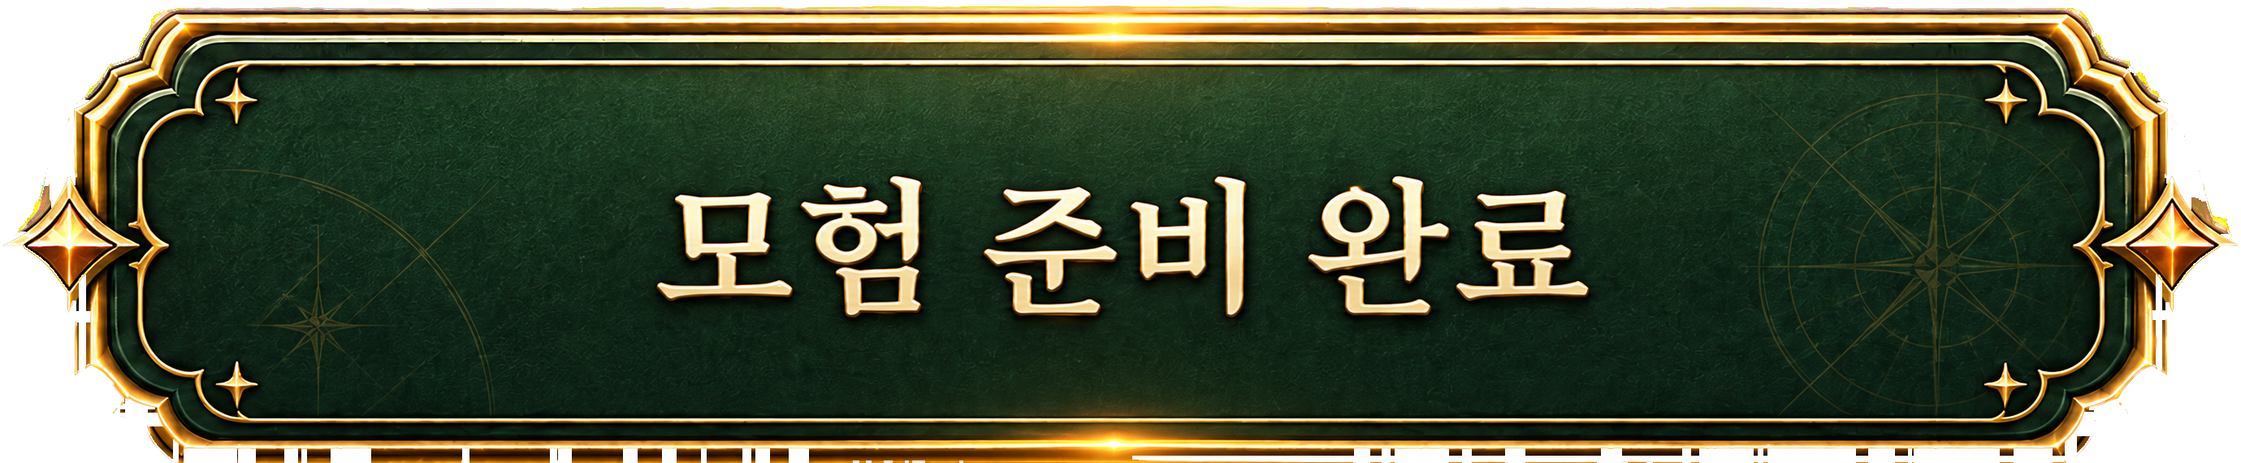
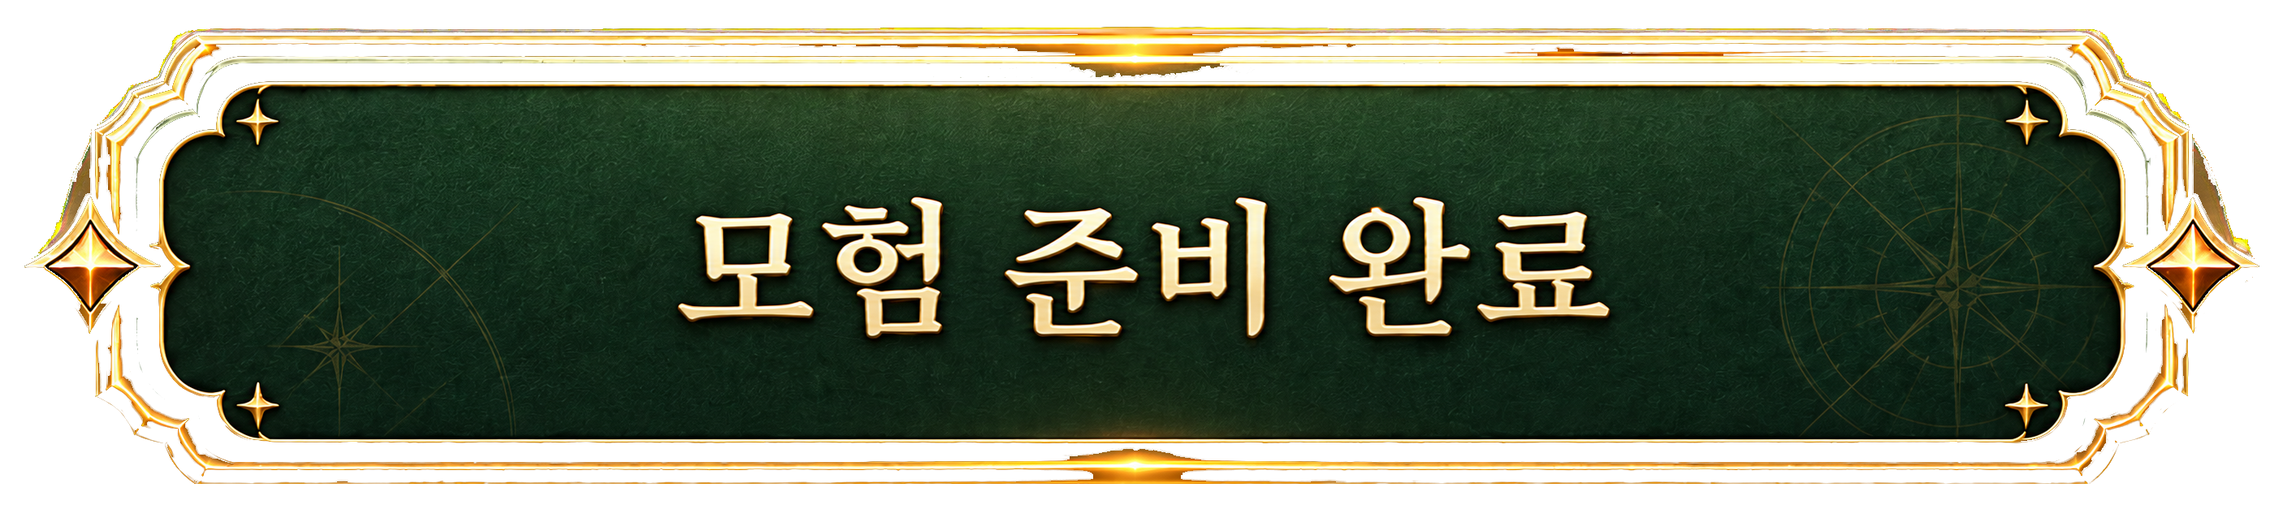
feat: 결과 화면에서 추천받기 패널로 마무리·게임/페어링 경로 차단, 프렙 정렬·버튼 아트 정리
- 결과 버튼: '우리 반 게임 만들기'/'이 기기에서 계속하기' 제거 -> '추천받기' +
  '다시 탐색하기'. 추천받기를 누르면 결과 우측에 WAITING BONUS 패널이 열리고
  성향 기반 같이교육 영상 3편 + 영상별 '나에게 보내기'(navigator.share, 없으면
  링크 복사 - 카톡 나와의 채팅에 붙여넣기) 제공
- 페어링/게임 빌더 씬은 코드에 남기되 라우팅에서 분리: 어떤 stage로 복원되든
  결과 화면으로 폴백해 끊긴 페이지에 갇히지 않음
- 프렙: 카드 블록을 중앙정렬에서 고정 상단 오프셋으로 - 2->3단계에서 한 계단
  덜컥 내려가던 현상 제거(전 단계 카드 top 423px 동일 실측)
- 버튼 아트: 배경 제거를 모서리 flood fill로 재작업(직선 스캔이 명패를 물어뜯어
  생긴 지저분한 가장자리 해결), 8종 전부 2811x622 동일 캔버스 + 이전 질문 명패도
  같은 박스로 재패딩해 상태별/좌우 크기 일치
- 결과 좌측 정렬: 방향 카드·다음 장면·버튼 줄의 음수 마진 제거(모두 left 156px 일치)
- 선생님 패널 이름 폰트 30 -> 24px, 닫기 버튼과 겹치지 않게

diff --git a/src/App.css b/src/App.css
@@ -12,7 +12,7 @@ button:focus-visible, input:focus-visible, [tabindex='-1']:focus-visible { outli
 .prep-footer { align-items: center; border-top: 1px solid rgba(97,57,16,.28); display: flex; gap: 30px; justify-content: space-between; margin-top: 3px; padding-top: 20px; }.prep-footer > p { color: #816039; font-size: 12px; line-height: 1.6; margin: 0; }.prep-submit { align-items: center; background: linear-gradient(110deg, #789d45, #2c8050 54%, #155238); border: 1px solid #d7e988; border-bottom: 4px solid #123c29; border-radius: 12px; box-shadow: 0 0 0 3px rgba(73,118,48,.18), inset 0 2px rgba(255,255,255,.55), 0 9px 14px rgba(71,39,6,.21); color: #fffbe9; cursor: pointer; display: flex; font-size: 17px; font-weight: 800; gap: 12px; justify-content: center; min-height: 62px; min-width: 260px; padding: 0 18px; text-shadow: 0 2px 3px rgba(0,0,0,.32); transition: filter .2s ease, transform .16s ease; }.prep-submit:hover:not(:disabled) { filter: brightness(1.08); transform: translateY(-1px); }.prep-submit:active:not(:disabled) { transform: translateY(2px); }.prep-submit:disabled { background: linear-gradient(145deg, #a8a18a, #706e62); border-color: #c6bfa5; border-bottom-color: #54534d; color: #eeead9; cursor: not-allowed; opacity: .78; text-shadow: none; }.prep-submit__seal { height: 31px; width: 31px; }.prep-cta-hint { color: #806038; font-size: 11px; font-weight: 700; margin: 10px 0 0; text-align: center; }.prep-cta-hint.is-ready { color: #376842; }
 
 /* Teacher state panel and deliberate confirmation steps. */
-.teacher-panel-backdrop, .restart-dialog-backdrop { align-items: flex-start; background: rgba(2,10,5,.62); display: flex; inset: 0; justify-content: flex-end; padding: clamp(14px,3vh,34px); position: fixed; z-index: 60; }.teacher-panel { background: linear-gradient(145deg, #f2dfae, #d8b56f); border: 1px solid #fbe8ae; box-shadow: 0 0 0 5px rgba(75,48,20,.9), 0 22px 50px rgba(0,0,0,.54), inset 0 0 50px rgba(112,63,17,.2); color: #422b10; max-height: calc(100svh - 28px); overflow-y: auto; padding: 24px; width: min(100%, 390px); }.teacher-panel__header { align-items: flex-start; border-bottom: 1px solid rgba(92,54,14,.3); display: flex; justify-content: space-between; padding-bottom: 17px; }.teacher-panel__header p { color: #92702c; font-size: 11px; font-weight: 800; letter-spacing: .12em; margin: 0 0 3px; }.teacher-panel__header h2 { font-family: 'Gowun Batang', serif; font-size: 30px; line-height: 1; margin: 0; }.panel-close { align-items: center; background: rgba(255,250,222,.48); border: 1px solid #9c7432; border-radius: 8px; color: #563817; cursor: pointer; display: flex; height: 40px; justify-content: center; width: 40px; }.teacher-panel__section { border-bottom: 1px solid rgba(92,54,14,.24); padding: 20px 0; }.teacher-panel h3 { color: #77531d; font-size: 13px; letter-spacing: -.02em; margin: 0 0 12px; }.profile-summary { display: grid; gap: 9px; margin: 0; }.profile-summary div { align-items: start; display: grid; gap: 10px; grid-template-columns: 105px 1fr; }.profile-summary dt { color: #866631; font-size: 12px; font-weight: 700; }.profile-summary dd { font-size: 13px; font-weight: 800; line-height: 1.45; margin: 0; }.profile-summary__growth { display: grid; gap: 3px; list-style: none; margin: 0; padding: 0; }.profile-summary__growth li { align-items: baseline; display: flex; gap: 7px; }.profile-summary__growth li::before { background: #43834c; border-radius: 50%; content: ''; flex: 0 0 auto; height: 7px; transform: translateY(-1px); width: 7px; }.panel-action, .panel-link-grid button { align-items: center; background: rgba(255,250,221,.38); border: 1px solid rgba(118,78,25,.44); border-radius: 8px; color: #553719; cursor: pointer; display: flex; font-size: 13px; font-weight: 800; gap: 7px; justify-content: center; min-height: 42px; }.panel-action { margin-top: 17px; width: 100%; }.teacher-panel__section--status > p { align-items: center; display: flex; font-size: 14px; font-weight: 800; gap: 8px; margin: 0 0 13px; }.status-orb { background: #43834c; border: 2px solid #d7cf88; border-radius: 50%; box-shadow: 0 0 9px rgba(75,153,74,.7); height: 10px; width: 10px; }.panel-link-grid { display: grid; gap: 8px; grid-template-columns: 1fr 1fr; }.panel-link-grid button { font-size: 11px; padding: 8px; }.teacher-panel__footer { padding-top: 18px; }.panel-reset { background: transparent; border: 0; color: #7e4124; cursor: pointer; font-size: 12px; font-weight: 800; padding: 5px 0; text-decoration: underline; }.reset-confirmation { background: rgba(119,57,29,.12); border: 1px solid rgba(124,65,27,.34); border-radius: 8px; padding: 13px; }.reset-confirmation p { font-size: 12px; font-weight: 700; line-height: 1.5; margin: 0 0 10px; }.reset-confirmation div { display: flex; gap: 8px; }.reset-confirmation button { background: #4c7642; border: 1px solid #2f512d; border-radius: 6px; color: #fff8db; cursor: pointer; font-size: 12px; font-weight: 800; min-height: 35px; padding: 0 10px; }.reset-confirmation button + button { background: #eee0b3; border-color: #a77b35; color: #573817; }
+.teacher-panel-backdrop, .restart-dialog-backdrop { align-items: flex-start; background: rgba(2,10,5,.62); display: flex; inset: 0; justify-content: flex-end; padding: clamp(14px,3vh,34px); position: fixed; z-index: 60; }.teacher-panel { background: linear-gradient(145deg, #f2dfae, #d8b56f); border: 1px solid #fbe8ae; box-shadow: 0 0 0 5px rgba(75,48,20,.9), 0 22px 50px rgba(0,0,0,.54), inset 0 0 50px rgba(112,63,17,.2); color: #422b10; max-height: calc(100svh - 28px); overflow-y: auto; padding: 24px; width: min(100%, 390px); }.teacher-panel__header { align-items: flex-start; border-bottom: 1px solid rgba(92,54,14,.3); display: flex; justify-content: space-between; padding-bottom: 17px; }.teacher-panel__header p { color: #92702c; font-size: 11px; font-weight: 800; letter-spacing: .12em; margin: 0 0 3px; }.teacher-panel__header h2 { font-family: 'Gowun Batang', serif; font-size: 24px; letter-spacing: -.04em; line-height: 1.15; margin: 0; overflow-wrap: anywhere; padding-right: 8px; }.panel-close { align-items: center; background: rgba(255,250,222,.48); border: 1px solid #9c7432; border-radius: 8px; color: #563817; cursor: pointer; display: flex; height: 40px; justify-content: center; width: 40px; }.teacher-panel__section { border-bottom: 1px solid rgba(92,54,14,.24); padding: 20px 0; }.teacher-panel h3 { color: #77531d; font-size: 13px; letter-spacing: -.02em; margin: 0 0 12px; }.profile-summary { display: grid; gap: 9px; margin: 0; }.profile-summary div { align-items: start; display: grid; gap: 10px; grid-template-columns: 105px 1fr; }.profile-summary dt { color: #866631; font-size: 12px; font-weight: 700; }.profile-summary dd { font-size: 13px; font-weight: 800; line-height: 1.45; margin: 0; }.profile-summary__growth { display: grid; gap: 3px; list-style: none; margin: 0; padding: 0; }.profile-summary__growth li { align-items: baseline; display: flex; gap: 7px; }.profile-summary__growth li::before { background: #43834c; border-radius: 50%; content: ''; flex: 0 0 auto; height: 7px; transform: translateY(-1px); width: 7px; }.panel-action, .panel-link-grid button { align-items: center; background: rgba(255,250,221,.38); border: 1px solid rgba(118,78,25,.44); border-radius: 8px; color: #553719; cursor: pointer; display: flex; font-size: 13px; font-weight: 800; gap: 7px; justify-content: center; min-height: 42px; }.panel-action { margin-top: 17px; width: 100%; }.teacher-panel__section--status > p { align-items: center; display: flex; font-size: 14px; font-weight: 800; gap: 8px; margin: 0 0 13px; }.status-orb { background: #43834c; border: 2px solid #d7cf88; border-radius: 50%; box-shadow: 0 0 9px rgba(75,153,74,.7); height: 10px; width: 10px; }.panel-link-grid { display: grid; gap: 8px; grid-template-columns: 1fr 1fr; }.panel-link-grid button { font-size: 11px; padding: 8px; }.teacher-panel__footer { padding-top: 18px; }.panel-reset { background: transparent; border: 0; color: #7e4124; cursor: pointer; font-size: 12px; font-weight: 800; padding: 5px 0; text-decoration: underline; }.reset-confirmation { background: rgba(119,57,29,.12); border: 1px solid rgba(124,65,27,.34); border-radius: 8px; padding: 13px; }.reset-confirmation p { font-size: 12px; font-weight: 700; line-height: 1.5; margin: 0 0 10px; }.reset-confirmation div { display: flex; gap: 8px; }.reset-confirmation button { background: #4c7642; border: 1px solid #2f512d; border-radius: 6px; color: #fff8db; cursor: pointer; font-size: 12px; font-weight: 800; min-height: 35px; padding: 0 10px; }.reset-confirmation button + button { background: #eee0b3; border-color: #a77b35; color: #573817; }
 .restart-dialog-backdrop { align-items: center; justify-content: center; }.restart-dialog { background: linear-gradient(145deg, #f2dfae, #d8b56f); border: 1px solid #fbe8ae; box-shadow: 0 0 0 5px rgba(75,48,20,.9), 0 22px 50px rgba(0,0,0,.54); color: #422b10; max-width: calc(100vw - 32px); padding: 27px; width: 430px; }.restart-dialog > p { color: #92702c; font-size: 11px; font-weight: 800; letter-spacing: .12em; margin: 0 0 8px; }.restart-dialog h2 { font-family: 'Gowun Batang', serif; font-size: 25px; letter-spacing: -.06em; margin: 0 0 9px; }.restart-dialog > span { color: #725027; font-size: 13px; }.restart-dialog div { display: flex; gap: 9px; margin-top: 22px; }.restart-dialog button { background: #407a48; border: 1px solid #1d5432; border-radius: 8px; color: #fff8dc; cursor: pointer; font-weight: 800; min-height: 43px; padding: 0 14px; }.restart-dialog button + button { background: #f5e6bd; border-color: #a97936; color: #563817; }
 
 @keyframes prep-mote { 0%,100% { opacity: .2; transform: translateY(14px); } 50% { opacity: .85; transform: translateY(-18px); } }

diff --git a/src/features/journey/journey-shared.css b/src/features/journey/journey-shared.css
@@ -315,16 +315,16 @@
    Everything from here down shares the same 640px right edge so the column reads as one. */
 /* Shifted left by exactly the bar + padding, so the words 반응/공감 sit on the same
    vertical line as the copy text above them. */
-.journey-result--art .journey-result__directions { display: grid; gap: clamp(10px, 1vw, 16px); grid-template-columns: repeat(2, minmax(0, 1fr)); margin-left: calc(-4px - clamp(17px, 1.7vw, 28px)); max-width: 640px; }
+.journey-result--art .journey-result__directions { display: grid; gap: clamp(10px, 1vw, 16px); grid-template-columns: repeat(2, minmax(0, 1fr)); max-width: 640px; }
 .journey-result--art .journey-result__directions span { background: rgba(255,255,255,.6); border: 0; border-left: 4px solid #8a6b22; border-radius: 0 10px 10px 0; box-shadow: 0 3px 12px rgba(60,70,40,.14); display: grid; gap: 6px; padding: clamp(15px, 1.5vw, 24px) clamp(17px, 1.7vw, 28px); }
 .journey-result--art .journey-result__directions small { color: #6b7b58; font-size: clamp(13px, 1.05vw, 18px); font-weight: 800; }
 .journey-result--art .journey-result__directions b { color: #20301e; font-size: clamp(25px, 2.1vw, 38px); letter-spacing: -.04em; }
 /* Same left shift as the direction cards, so every box shares one left edge. */
-.journey-result--art .journey-result__caution { background: rgba(255,255,255,.55); border-left: 4px solid #8a6b22; border-radius: 0 10px 10px 0; box-sizing: border-box; color: #43402e; font-size: clamp(14px, 1.05vw, 18px); line-height: 1.7; margin-left: calc(-4px - clamp(17px, 1.7vw, 28px)); margin-top: clamp(18px, 2.6vh, 30px); max-width: 640px; padding: clamp(10px, 1.2vh, 15px) clamp(17px, 1.7vw, 28px); }
+.journey-result--art .journey-result__caution { background: rgba(255,255,255,.55); border-left: 4px solid #8a6b22; border-radius: 0 10px 10px 0; box-sizing: border-box; color: #43402e; font-size: clamp(14px, 1.05vw, 18px); line-height: 1.7; margin-top: clamp(18px, 2.6vh, 30px); max-width: 640px; padding: clamp(10px, 1.2vh, 15px) clamp(17px, 1.7vw, 28px); }
 .journey-result--art .journey-result__caution b { color: #8a6b22; font-size: clamp(12px, .95vw, 15px); letter-spacing: .08em; }
 .journey-result--art .journey-result__next { color: #2c5a3c; font-size: clamp(16px, 1.3vw, 23px); font-weight: 800; letter-spacing: -.03em; margin-top: clamp(16px, 2.2vh, 26px); }
 .journey-result--art .journey-result__disclaimer { color: #6e785f; font-size: clamp(12px, .95vw, 16px); line-height: 1.65; margin-top: clamp(10px, 1.6vh, 18px); }
-.journey-result--art .journey-result__actions { margin-left: calc(-4px - clamp(17px, 1.7vw, 28px)); margin-top: clamp(14px, 2.2vh, 28px); max-width: 640px; }
+.journey-result--art .journey-result__actions { margin-top: clamp(14px, 2.2vh, 28px); max-width: 640px; }
 /* On the per-type art the painting's own character carries the reveal; the CSS lockup
    overlay just collided with him. */
 .journey-result--art .journey-result__reveal { display: none; }
@@ -377,4 +377,34 @@
   .pairing-mobile-flow{display:grid;gap:14px;margin:50svh 0 0;width:100%}.pairing-mobile-flow .pairing-gate{margin:0;max-width:none;padding:24px 18px}.pairing-gate__code{font-size:clamp(42px,11vw,56px);letter-spacing:.1em;padding-left:.1em}.pairing-waiting{display:grid;gap:13px}.pairing-waiting>section{background:linear-gradient(145deg,rgba(246,233,189,.97),rgba(216,183,111,.96));border:1px solid rgba(125,85,28,.62);box-shadow:inset 0 1px rgba(255,255,255,.7),0 10px 22px rgba(0,0,0,.26);color:#402e18;padding:18px}.pairing-waiting h2{font-family:'Gowun Batang',serif;font-size:25px;letter-spacing:-.08em;line-height:1.12;margin:2px 0 8px}.pairing-waiting>section>p{font-size:12px;font-weight:700;line-height:1.55;margin:0}.pairing-videos{display:grid;gap:9px;margin-top:14px}.pairing-videos a{background:rgba(255,250,224,.68);border:1px solid rgba(113,76,25,.32);color:#3e2d18;display:grid;gap:9px;grid-template-columns:94px 1fr;min-height:92px;padding:7px;text-decoration:none}.pairing-videos img{height:100%;object-fit:cover;width:94px}.pairing-videos__thumb-fallback{align-items:center;background:rgba(113,76,25,.14);color:#71531e;display:flex;height:100%;justify-content:center;width:94px}.pairing-videos span{display:grid;gap:3px}.pairing-videos b{font-size:13px;line-height:1.3}.pairing-videos small{font-size:10px;line-height:1.35}.pairing-videos em{color:#28663d;font-size:10px;font-style:normal;font-weight:900}.pairing-story{background:linear-gradient(145deg,rgba(8,45,28,.96),rgba(3,20,12,.98))!important;color:#fff4c9!important}.pairing-story h2{color:#fff2bf}.pairing-story>p{color:rgba(255,245,210,.84)!important}.pairing-story>div{display:grid;gap:8px;grid-template-columns:1fr;margin-top:14px}.pairing-story button{background:rgba(244,212,118,.14);border:1px solid rgba(244,212,118,.7);color:#fff3c2;cursor:pointer;font:inherit;font-size:13px;font-weight:900;min-height:48px}.pairing-story button:focus-visible,.pairing-story button:hover{background:rgba(244,212,118,.25);outline:2px solid #f4d474;outline-offset:2px}.pairing-story img{border:1px solid rgba(244,212,118,.72);display:block;margin:15px auto 0;max-width:100%}.pairing-story__message{color:#f8dc8c!important;margin-top:12px!important}
 }
 
-.completion-videos a{align-items:center;display:inline-flex!important;min-height:44px}
+.completion-videos a{align-items:center;display:inline-flex!important;min-height:44px}
+/* --- Result recommendations panel (2026-08-13) ----------------------------------------
+   Opens beside the result copy when 추천받기 is pressed; the game builder and the
+   notebook-pairing flow are no longer reachable from this screen. */
+.result-rec { align-self: start; background: linear-gradient(160deg, rgba(255,251,232,.96), rgba(228,203,140,.94)); border: 1px solid rgba(123,82,27,.42); border-radius: 10px; box-shadow: 0 20px 46px rgba(0,0,0,.4); color: #402e18; padding: clamp(18px, 1.7vw, 28px); }
+.result-rec .journey-kicker { color: #8c672a; margin: 0 0 6px; }
+.result-rec h2 { font-family: 'Gowun Batang', serif; font-size: clamp(20px, 1.6vw, 27px); letter-spacing: -.05em; line-height: 1.15; margin: 0 0 8px; }
+.result-rec__lead { font-size: clamp(12px, .92vw, 15px); font-weight: 700; line-height: 1.6; margin: 0 0 14px; }
+.result-rec__list { display: grid; gap: 12px; }
+.result-rec__list article { background: rgba(255,250,224,.78); border: 1px solid rgba(113,76,25,.3); border-radius: 9px; display: grid; gap: 10px; grid-template-columns: 108px minmax(0, 1fr); padding: 9px; }
+.result-rec__thumb { border-radius: 6px; display: block; overflow: hidden; position: relative; }
+.result-rec__thumb img { aspect-ratio: 16 / 9; display: block; height: auto; object-fit: cover; width: 100%; }
+.result-rec__thumb--fallback { align-items: center; aspect-ratio: 16 / 9; background: rgba(113,76,25,.14); color: #71531e; display: flex; justify-content: center; }
+/* Play affordance over the thumbnail, matching the pairing panel's. */
+.result-rec__thumb::after { background: radial-gradient(circle, rgba(10,20,14,.55) 0 58%, transparent 62%); border-radius: 50%; content: ''; height: 34px; left: 50%; position: absolute; top: 50%; transform: translate(-50%, -50%); width: 34px; }
+.result-rec__thumb--fallback::after { content: none; }
+.result-rec__list h3 { font-size: clamp(13px, 1vw, 16px); line-height: 1.3; margin: 0 0 3px; }
+.result-rec__list small { color: #6b5326; font-size: clamp(10px, .82vw, 12px); }
+.result-rec__actions { display: flex; flex-wrap: wrap; gap: 8px; margin-top: 7px; }
+.result-rec__actions a, .result-rec__actions button { align-items: center; background: none; border: 0; color: #28663d; cursor: pointer; display: inline-flex; font: inherit; font-size: clamp(11px, .85vw, 13px); font-weight: 900; gap: 5px; padding: 0; text-decoration: none; }
+.result-rec__actions button:hover, .result-rec__actions a:hover { text-decoration: underline; }
+.result-rec__message { color: #5c4118; font-size: clamp(11px, .85vw, 13px); font-weight: 700; margin: 12px 0 0; min-height: 18px; }
+
+@media (min-width: 1101px) {
+  /* Result copy left, recommendations right — the painting's subject stays clear between. */
+  .journey-result.has-recommendations { align-items: start; column-gap: clamp(24px, 3vw, 64px); display: grid; grid-template-columns: minmax(0, 1fr) clamp(330px, 27vw, 440px); width: 100%; }
+  .journey-result.has-recommendations .journey-result__copy { grid-column: 1; }
+  .journey-result.has-recommendations .result-rec { grid-column: 2; }
+  .journey-result.has-recommendations .journey-result__reveal { display: none; }
+}
+@media (max-width: 1100px) { .result-rec { margin-top: 18px; } }

diff --git a/src/features/journey/scenes/NbtiScenes.tsx b/src/features/journey/scenes/NbtiScenes.tsx
@@ -5,6 +5,7 @@ import { ClasscadeEmblem, ClasscadeLockup, Icon, type IconName } from '../../../
 import { NBTI_AXES, NBTI_QUESTIONS, NBTI_TOTAL_QUESTIONS, type NbtiAxis, type NbtiDirection } from '../../../data/nbti.provisional'
 import { getProvisionalResult } from '../../../data/nbtiResults.provisional'
 import { nbtiResultArt } from '../../../data/nbtiResultArt'
+import { ResultRecommendations } from '../components/ResultRecommendations'
 import { PrimaryButton, Progress, SceneFrame, SecondaryButton, type JourneySceneProps } from '../components/SceneFrame'
 
 const journeyItems = [{ icon: 'clock' as const, title: '약 1분', detail: '간단한 여정' }, { icon: 'spark' as const, title: '캐릭터 성장', detail: '선택이 힘이 돼요' }, { icon: 'gamepad' as const, title: '우리 반 게임', detail: '까지 연결돼요' }]
@@ -239,11 +240,13 @@ function JourneyNavArt({ art, label, onClick, disabled, variant }: { art: string
 export function ResultScene(props: JourneySceneProps & { onPair: () => void }) {
   const result = getProvisionalResult(props.state.resultCode)
   const typeArt = nbtiResultArt(nbtiTypeCode(result.directions))
+  const [showRecommendations, setShowRecommendations] = useState(false)
   return (
     <SceneFrame scene="result" {...props} artSrc={typeArt}>
-      <div className={`journey-result journey-result--${result.palette} ${typeArt ? 'journey-result--art' : ''} journey-enter`}>
-        <div className="journey-result__copy"><p className="journey-kicker">✦ 나의 교실 플레이 결과 ✦</p><p className="journey-result__eyebrow">나의 교실 플레이 유형은</p><h1>{result.title}</h1><div className="journey-result__badges"><span className="journey-result__code">{nbtiTypeCode(result.directions)}</span><div className="journey-result__strengths">{result.strengths.map((strength) => <span key={strength}>{strengthEmoji(strength)} {strength}</span>)}</div></div><p className="journey-result__description">{result.description}</p><div className="journey-result__directions" aria-label="나의 네 성향">{NBTI_AXES.map((axis, index) => <span key={axis.id}><small>{axis.label}</small><b>{directionEmoji[result.directions[index]]} {directionLabels[result.directions[index]]}</b></span>)}</div><p className="journey-result__caution"><b>다음 장면</b>{result.caution}</p><p className="journey-result__next">교실 속 나를 발견하다. 놀이로 확장하다.</p><p className="journey-result__disclaimer">이 결과는 선생님의 모든 모습을 규정하지 않아요. 오늘의 교실 장면에서 가장 자주 드러난 선택을 보여 줍니다.</p><div className="journey-result__actions"><PrimaryButton onClick={props.onPair}>우리 반 게임 만들기</PrimaryButton><SecondaryButton onClick={() => props.onAction({ type: 'OPEN_GAME_INTRO' })}>이 기기에서 계속하기</SecondaryButton><SecondaryButton onClick={() => props.onAction({ type: 'RESET_NBTI' })}><Icon name="reset" size={19} />다시 탐색하기</SecondaryButton></div></div>
+      <div className={`journey-result journey-result--${result.palette} ${typeArt ? 'journey-result--art' : ''} ${showRecommendations ? 'has-recommendations' : ''} journey-enter`}>
+        <div className="journey-result__copy"><p className="journey-kicker">✦ 나의 교실 플레이 결과 ✦</p><p className="journey-result__eyebrow">나의 교실 플레이 유형은</p><h1>{result.title}</h1><div className="journey-result__badges"><span className="journey-result__code">{nbtiTypeCode(result.directions)}</span><div className="journey-result__strengths">{result.strengths.map((strength) => <span key={strength}>{strengthEmoji(strength)} {strength}</span>)}</div></div><p className="journey-result__description">{result.description}</p><div className="journey-result__directions" aria-label="나의 네 성향">{NBTI_AXES.map((axis, index) => <span key={axis.id}><small>{axis.label}</small><b>{directionEmoji[result.directions[index]]} {directionLabels[result.directions[index]]}</b></span>)}</div><p className="journey-result__caution"><b>다음 장면</b>{result.caution}</p><p className="journey-result__next">교실 속 나를 발견하다. 놀이로 확장하다.</p><p className="journey-result__disclaimer">이 결과는 선생님의 모든 모습을 규정하지 않아요. 오늘의 교실 장면에서 가장 자주 드러난 선택을 보여 줍니다.</p><div className="journey-result__actions"><PrimaryButton onClick={() => setShowRecommendations(true)}>추천받기</PrimaryButton><SecondaryButton onClick={() => props.onAction({ type: 'RESET_NBTI' })}><Icon name="reset" size={19} />다시 탐색하기</SecondaryButton></div></div>
         <aside className="journey-result__reveal" aria-label="결과 해금 연출"><ClasscadeLockup /><p>{result.subtitle}</p><span>빛나는 문양이 기록되었습니다</span><i /><i /><i /></aside>
+        {showRecommendations && <ResultRecommendations state={props.state} />}
       </div>
     </SceneFrame>
   )

diff --git a/src/features/journey/components/ResultRecommendations.tsx b/src/features/journey/components/ResultRecommendations.tsx
@@ -1,0 +1,74 @@
+import { useMemo, useState } from 'react'
+import { CompassSeal, Icon } from '../../../components/VisualPrimitives'
+import { CLASSCADE_VIDEO_CATALOG, rankVideos, recommendationTags } from '../../../data/completionExperience'
+import { getProvisionalResult } from '../../../data/nbtiResults.provisional'
+import type { JourneyState } from '../journeyState'
+
+function Thumb({ src }: { src?: string }) {
+  const [failed, setFailed] = useState(!src)
+  if (failed) return <span className="result-rec__thumb result-rec__thumb--fallback" aria-hidden="true"><CompassSeal /></span>
+  return <span className="result-rec__thumb"><img src={src} alt="" onError={() => setFailed(true)} /></span>
+}
+
+/** Recommendations opened straight from the result screen — the game builder and the
+ *  notebook-pairing flow are no longer part of this path. */
+export function ResultRecommendations({ state }: { state: JourneyState }) {
+  const result = getProvisionalResult(state.resultCode)
+  /* No game data on this path, so conditions/candidate are null: the ranking runs on the
+     NBTI direction tags alone. Backfilled so the panel always has three to show. */
+  const videos = useMemo(() => {
+    const tags = recommendationTags(result.directions, null, null, {})
+    const ranked = rankVideos(tags, null).map((entry) => entry.video)
+    const seen = new Set(ranked.map((video) => video.id))
+    const fill = CLASSCADE_VIDEO_CATALOG.filter((video) => video.published && !seen.has(video.id))
+    return [...ranked, ...fill].slice(0, 3)
+  }, [result.directions])
+  const [message, setMessage] = useState('')
+
+  /* Share must be called synchronously inside the handler (iOS drops the gesture after
+     an await). Desktop browsers mostly lack navigator.share, so copying the link is the
+     documented fallback — the teacher pastes it into KakaoTalk's 나와의 채팅. */
+  function sendToChat(title: string, url: string) {
+    setMessage('')
+    if (navigator.share) {
+      navigator.share({ title, text: `${title} · 같이교육`, url })
+        .then(() => setMessage('공유 창을 열었어요. 카카오톡 → 나와의 채팅을 고르면 나에게 보낼 수 있어요.'))
+        .catch((error: unknown) => {
+          if (error instanceof DOMException && error.name === 'AbortError') return
+          copyLink(url)
+        })
+      return
+    }
+    copyLink(url)
+  }
+
+  function copyLink(url: string) {
+    navigator.clipboard?.writeText(url)
+      .then(() => setMessage('링크를 복사했어요. 카카오톡 → 나와의 채팅에 붙여넣으면 저장됩니다.'))
+      .catch(() => setMessage('복사에 실패했어요. 영상 링크를 길게 눌러 복사해 주세요.'))
+  }
+
+  return (
+    <aside className="result-rec journey-enter" aria-label="같이교육 추천 영상">
+      <p className="journey-kicker">WAITING BONUS</p>
+      <h2>기다리는 동안 둘러보세요 ✨</h2>
+      <p className="result-rec__lead">{result.title} 성향에 맞춘 같이교육의 짧은 활동 영상이에요.</p>
+      <div className="result-rec__list">
+        {videos.map((video) => (
+          <article key={video.id}>
+            <a href={video.youtubeUrl} target="_blank" rel="noreferrer" aria-label={`${video.title} - 같이교육 영상 보기`}><Thumb src={video.thumbnailUrl} /></a>
+            <div>
+              <h3>{video.title}</h3>
+              <small>{video.duration} · {video.materials}</small>
+              <div className="result-rec__actions">
+                <a href={video.youtubeUrl} target="_blank" rel="noreferrer">영상 보기 ↗</a>
+                <button type="button" onClick={() => sendToChat(video.title, video.youtubeUrl)}><Icon name="share" size={14} />나에게 보내기</button>
+              </div>
+            </div>
+          </article>
+        ))}
+      </div>
+      <p className="result-rec__message" aria-live="polite">{message}</p>
+    </aside>
+  )
+}

diff --git a/src/features/journey/JourneyApp.tsx b/src/features/journey/JourneyApp.tsx
@@ -48,20 +48,28 @@ export function JourneyApp({ state, notice, onAction, onTeacherOpen, teacherTrig
   const sceneProps: JourneySceneProps = { state, notice, onAction: dispatch, onTeacherOpen, teacherTriggerRef, profile: profile ?? undefined, onRequestHome: () => { setExitDialogMode('home'); setExitDialogOpen(true) }, onNextParticipant: onNextParticipant ? () => { setExitDialogMode('next'); setExitDialogOpen(true) } : undefined }
 
   let content: React.ReactNode
+  /* 2026-08-13: the journey now ends at the result screen. The pairing and game-builder
+     scenes below are kept in the codebase but are no longer reachable — any stage that
+     still points at them (a restored session, a stale saved stage) falls back to the
+     result screen rather than dead-ending on a disconnected page. */
   if (pairingEntry) content = <PairingEntryScene {...sceneProps} onPaired={(payload) => onPaired?.(payload)} onStart={() => onStartHere?.()} onBack={() => onExitPairingEntry?.()} />
   else if (state.stage === 'nbti_start') content = <StartScene {...sceneProps} />
   else if (state.stage === 'nbti_question') content = <QuestionScene {...sceneProps} />
-  else if (state.stage === 'nbti_result' && pairingOpen && profile) content = <PairingScene {...sceneProps} profile={profile} journeyId={journeyId} onBack={() => { savePairingGateOpen(false); setPairingOpen(false) }} />
-  else if (state.stage === 'nbti_result') content = <ResultScene {...sceneProps} onPair={() => { savePairingGateOpen(true); setPairingOpen(true) }} />
-  else if (state.stage === 'game_intro') content = <GameIntroScene {...sceneProps} />
-  else if (state.stage === 'game_conditions') content = <GameConditionsScene {...sceneProps} />
-  else if (state.stage === 'game_concepts') content = <GameConceptsScene {...sceneProps} />
-  else if (state.stage === 'game_candidates') content = <GameCandidatesScene {...sceneProps} />
-  else if (state.stage === 'game_adjust') content = <GameAdjustScene {...sceneProps} />
-  else if (state.stage === 'game_choice') content = <GameChoiceScene {...sceneProps} />
-  else if (state.stage === 'game_shake') content = <ShakeScene {...sceneProps} />
-  else if (state.stage === 'game_complete') content = <CompleteScene {...sceneProps} />
-  else content = <ShareScene {...sceneProps} />
+  else content = <ResultScene {...sceneProps} onPair={() => { savePairingGateOpen(true); setPairingOpen(true) }} />
+
+  const disconnectedScenes = (): React.ReactNode => {
+    if (state.stage === 'nbti_result' && pairingOpen && profile) return <PairingScene {...sceneProps} profile={profile} journeyId={journeyId} onBack={() => { savePairingGateOpen(false); setPairingOpen(false) }} />
+    if (state.stage === 'game_intro') return <GameIntroScene {...sceneProps} />
+    if (state.stage === 'game_conditions') return <GameConditionsScene {...sceneProps} />
+    if (state.stage === 'game_concepts') return <GameConceptsScene {...sceneProps} />
+    if (state.stage === 'game_candidates') return <GameCandidatesScene {...sceneProps} />
+    if (state.stage === 'game_adjust') return <GameAdjustScene {...sceneProps} />
+    if (state.stage === 'game_choice') return <GameChoiceScene {...sceneProps} />
+    if (state.stage === 'game_shake') return <ShakeScene {...sceneProps} />
+    if (state.stage === 'game_complete') return <CompleteScene {...sceneProps} />
+    return <ShareScene {...sceneProps} />
+  }
+  void disconnectedScenes
 
   return <>{content}<JourneyExitDialog open={exitDialogOpen} mode={exitDialogMode} onContinue={() => setExitDialogOpen(false)} onHome={() => { setExitDialogOpen(false); dispatch({ type: 'GO_HOME' }) }} onNewSession={() => { setExitDialogOpen(false); if (exitDialogMode === 'next') onNextParticipant?.(); else dispatch({ type: 'RESET_NBTI' }) }} /></>
 }

diff --git a/src/entry-flat.css b/src/entry-flat.css
@@ -264,10 +264,12 @@
      close. */
   padding: var(--prep-gap) 0 var(--prep-gap);
 }
-/* Centred in the leftover space, but never opening a gap larger than this - otherwise
-   the sparse pages push the cards far from their question. */
+/* Fixed distance below the question, NOT centred in the leftover space: centring made
+   the card block's top edge depend on how many rows that step happens to have, so
+   stepping 2 -> 3 (one row -> two rows) visibly jolted the whole block down a notch.
+   A constant top offset keeps every step's cards on the same line. */
 .entry-prep--flat .entry-flat-cards,
-.entry-prep--flat .entry-growth-grid { margin-block: auto; }
+.entry-prep--flat .entry-growth-grid { margin-block: 0 auto; }
 .entry-prep--flat .entry-prep__question-head { margin-bottom: var(--prep-gap); }
 /* Equal space above and below the nav row: the padding above the buttons matches the
    panel's own bottom padding below them. */

diff --git a/src/features/journey/journey-board.css b/src/features/journey/journey-board.css
@@ -109,7 +109,8 @@
 /* The parchment frame's painted border needs clearance — without the extra padding the
    slot labels and progress bar sit on top of the frame art. Also pulled well off the
    right edge toward the centre. */
-.journey-question-split > .journey-question__sidebar { margin-right: clamp(80px, 11vw, 250px); margin-top: clamp(-52px, -4.5vh, -24px); padding: clamp(22px, 1.9vw, 34px) clamp(20px, 1.7vw, 30px); }
+/* Top-aligned with the question board — the negative pull left them a step apart. */
+.journey-question-split > .journey-question__sidebar { margin-right: clamp(80px, 11vw, 250px); margin-top: 0; padding: clamp(22px, 1.9vw, 34px) clamp(20px, 1.7vw, 30px); }
 
 /* Fully opaque player board — translucency over the busy backdrop hurt readability. */
 .journey-question-split > .journey-question__sidebar { background: linear-gradient(160deg, #fffbe8, #e9d3a0); }
